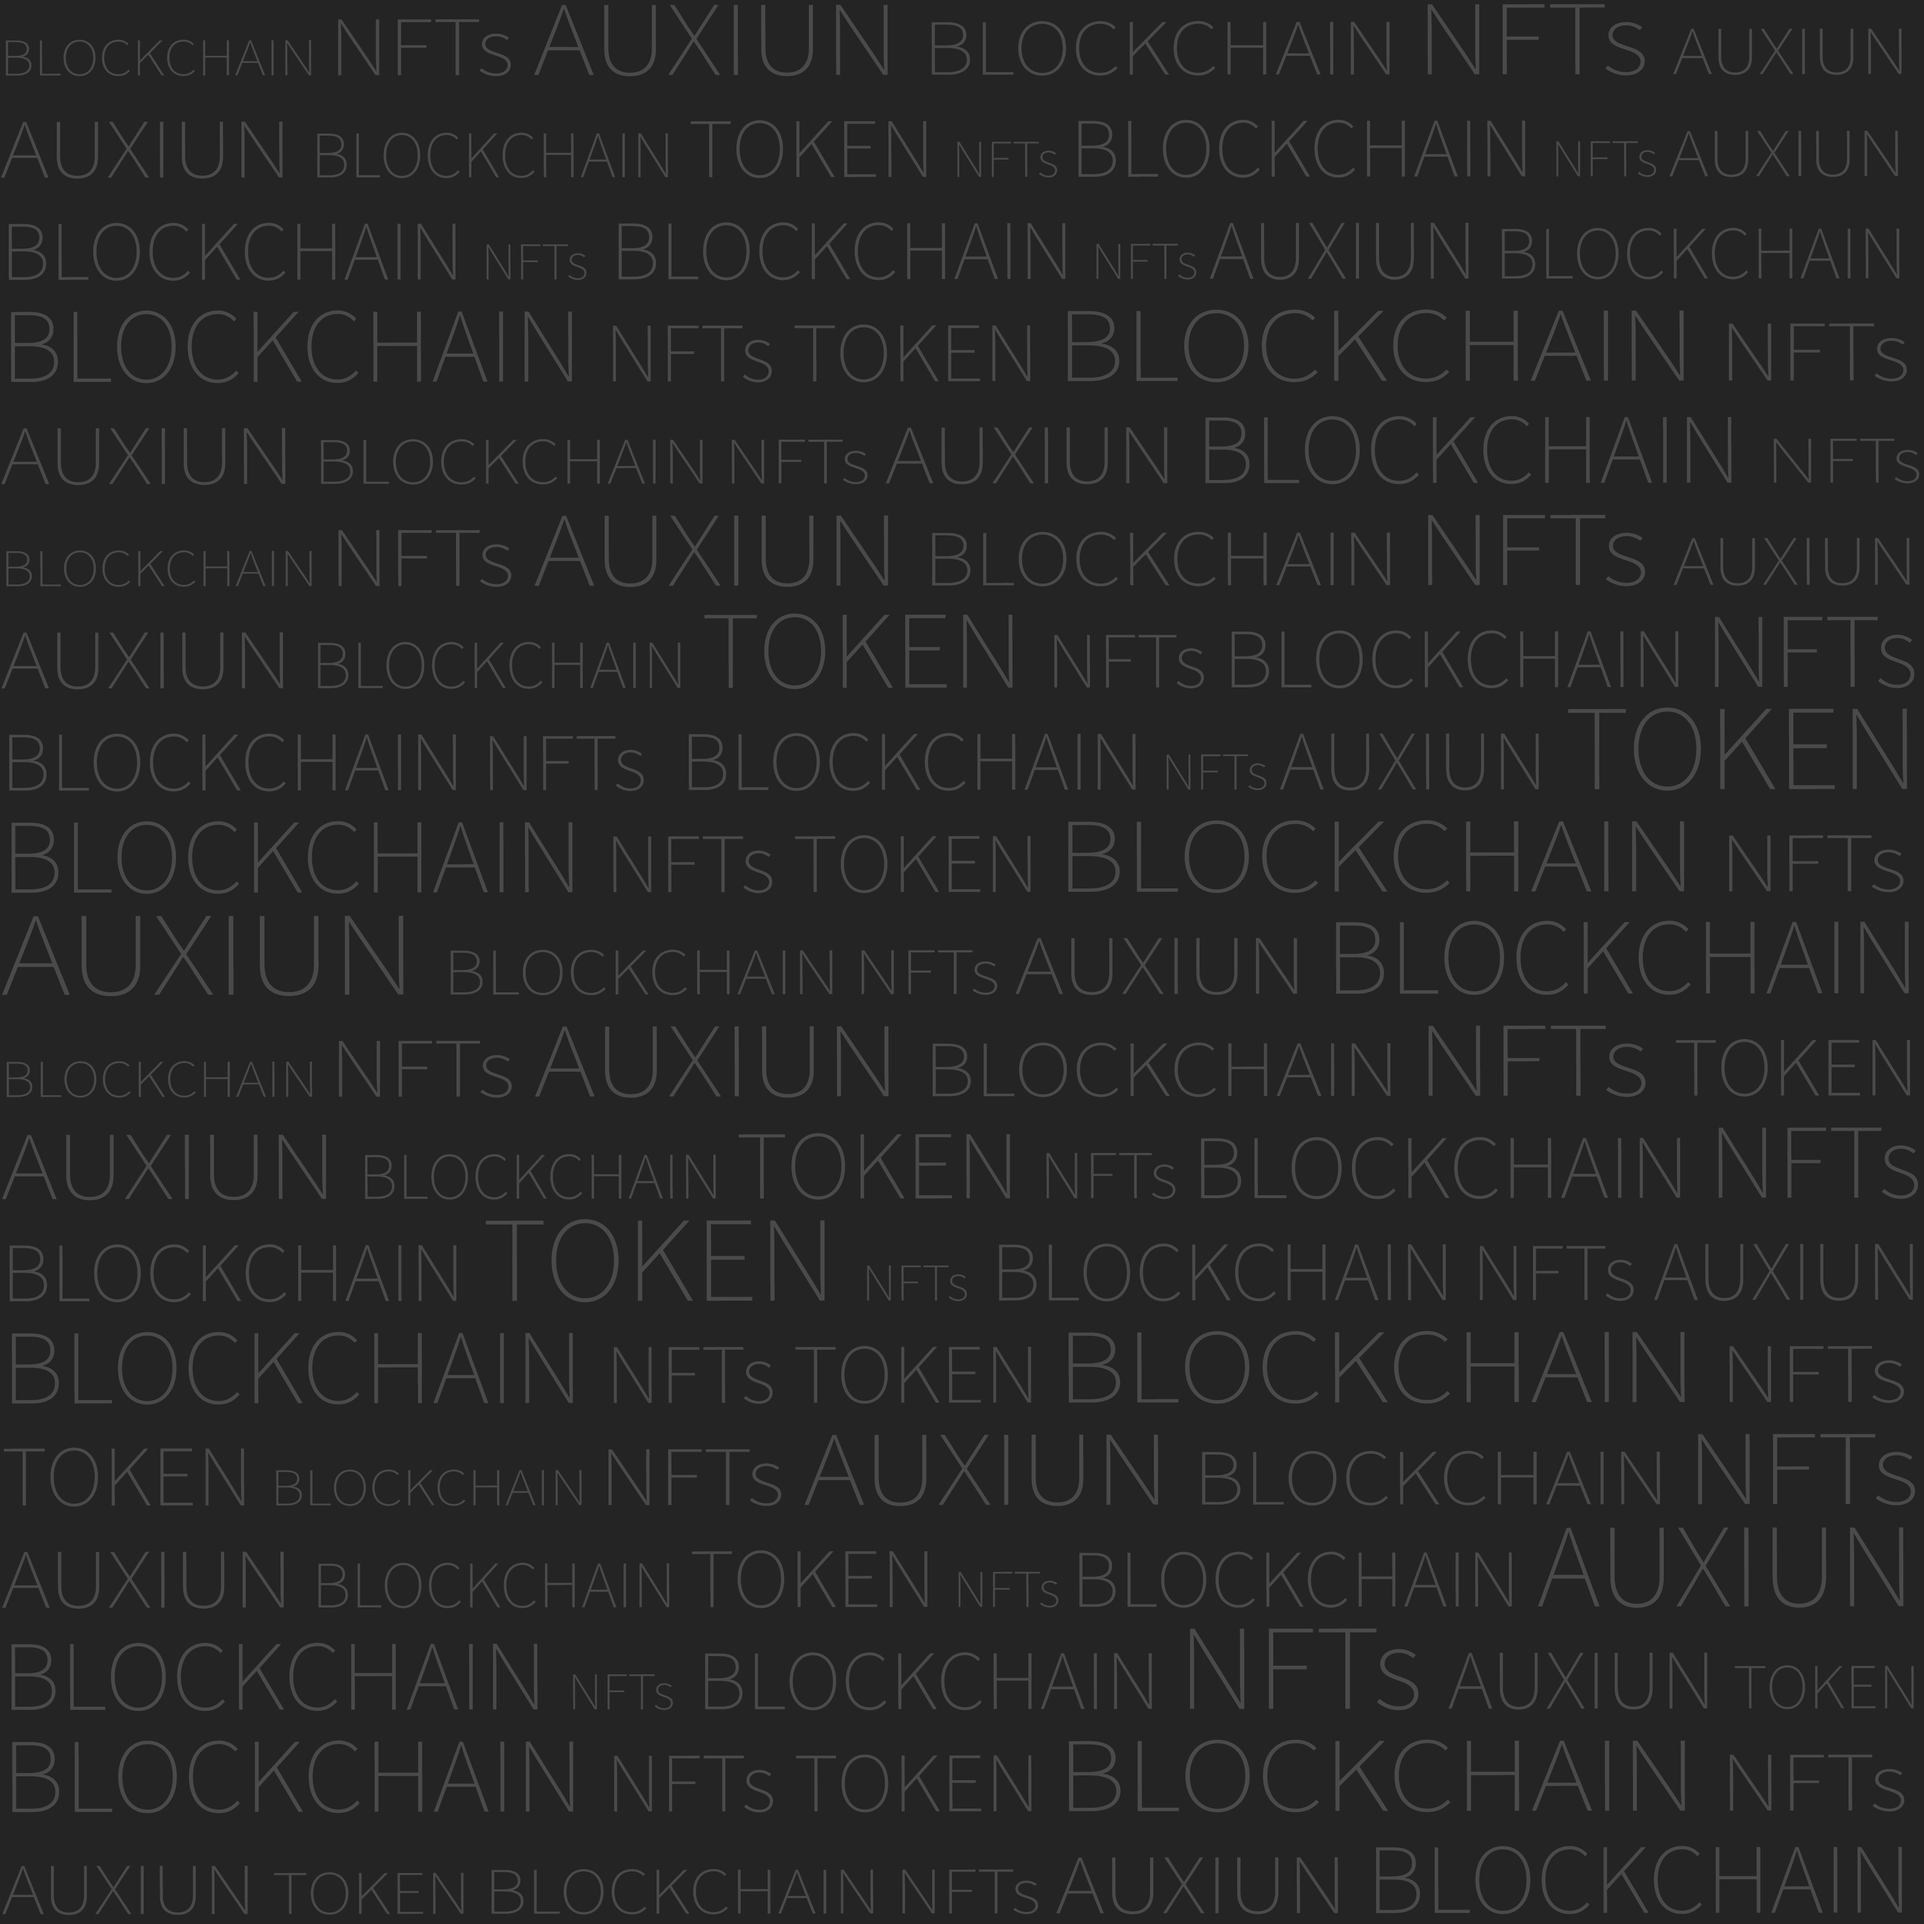
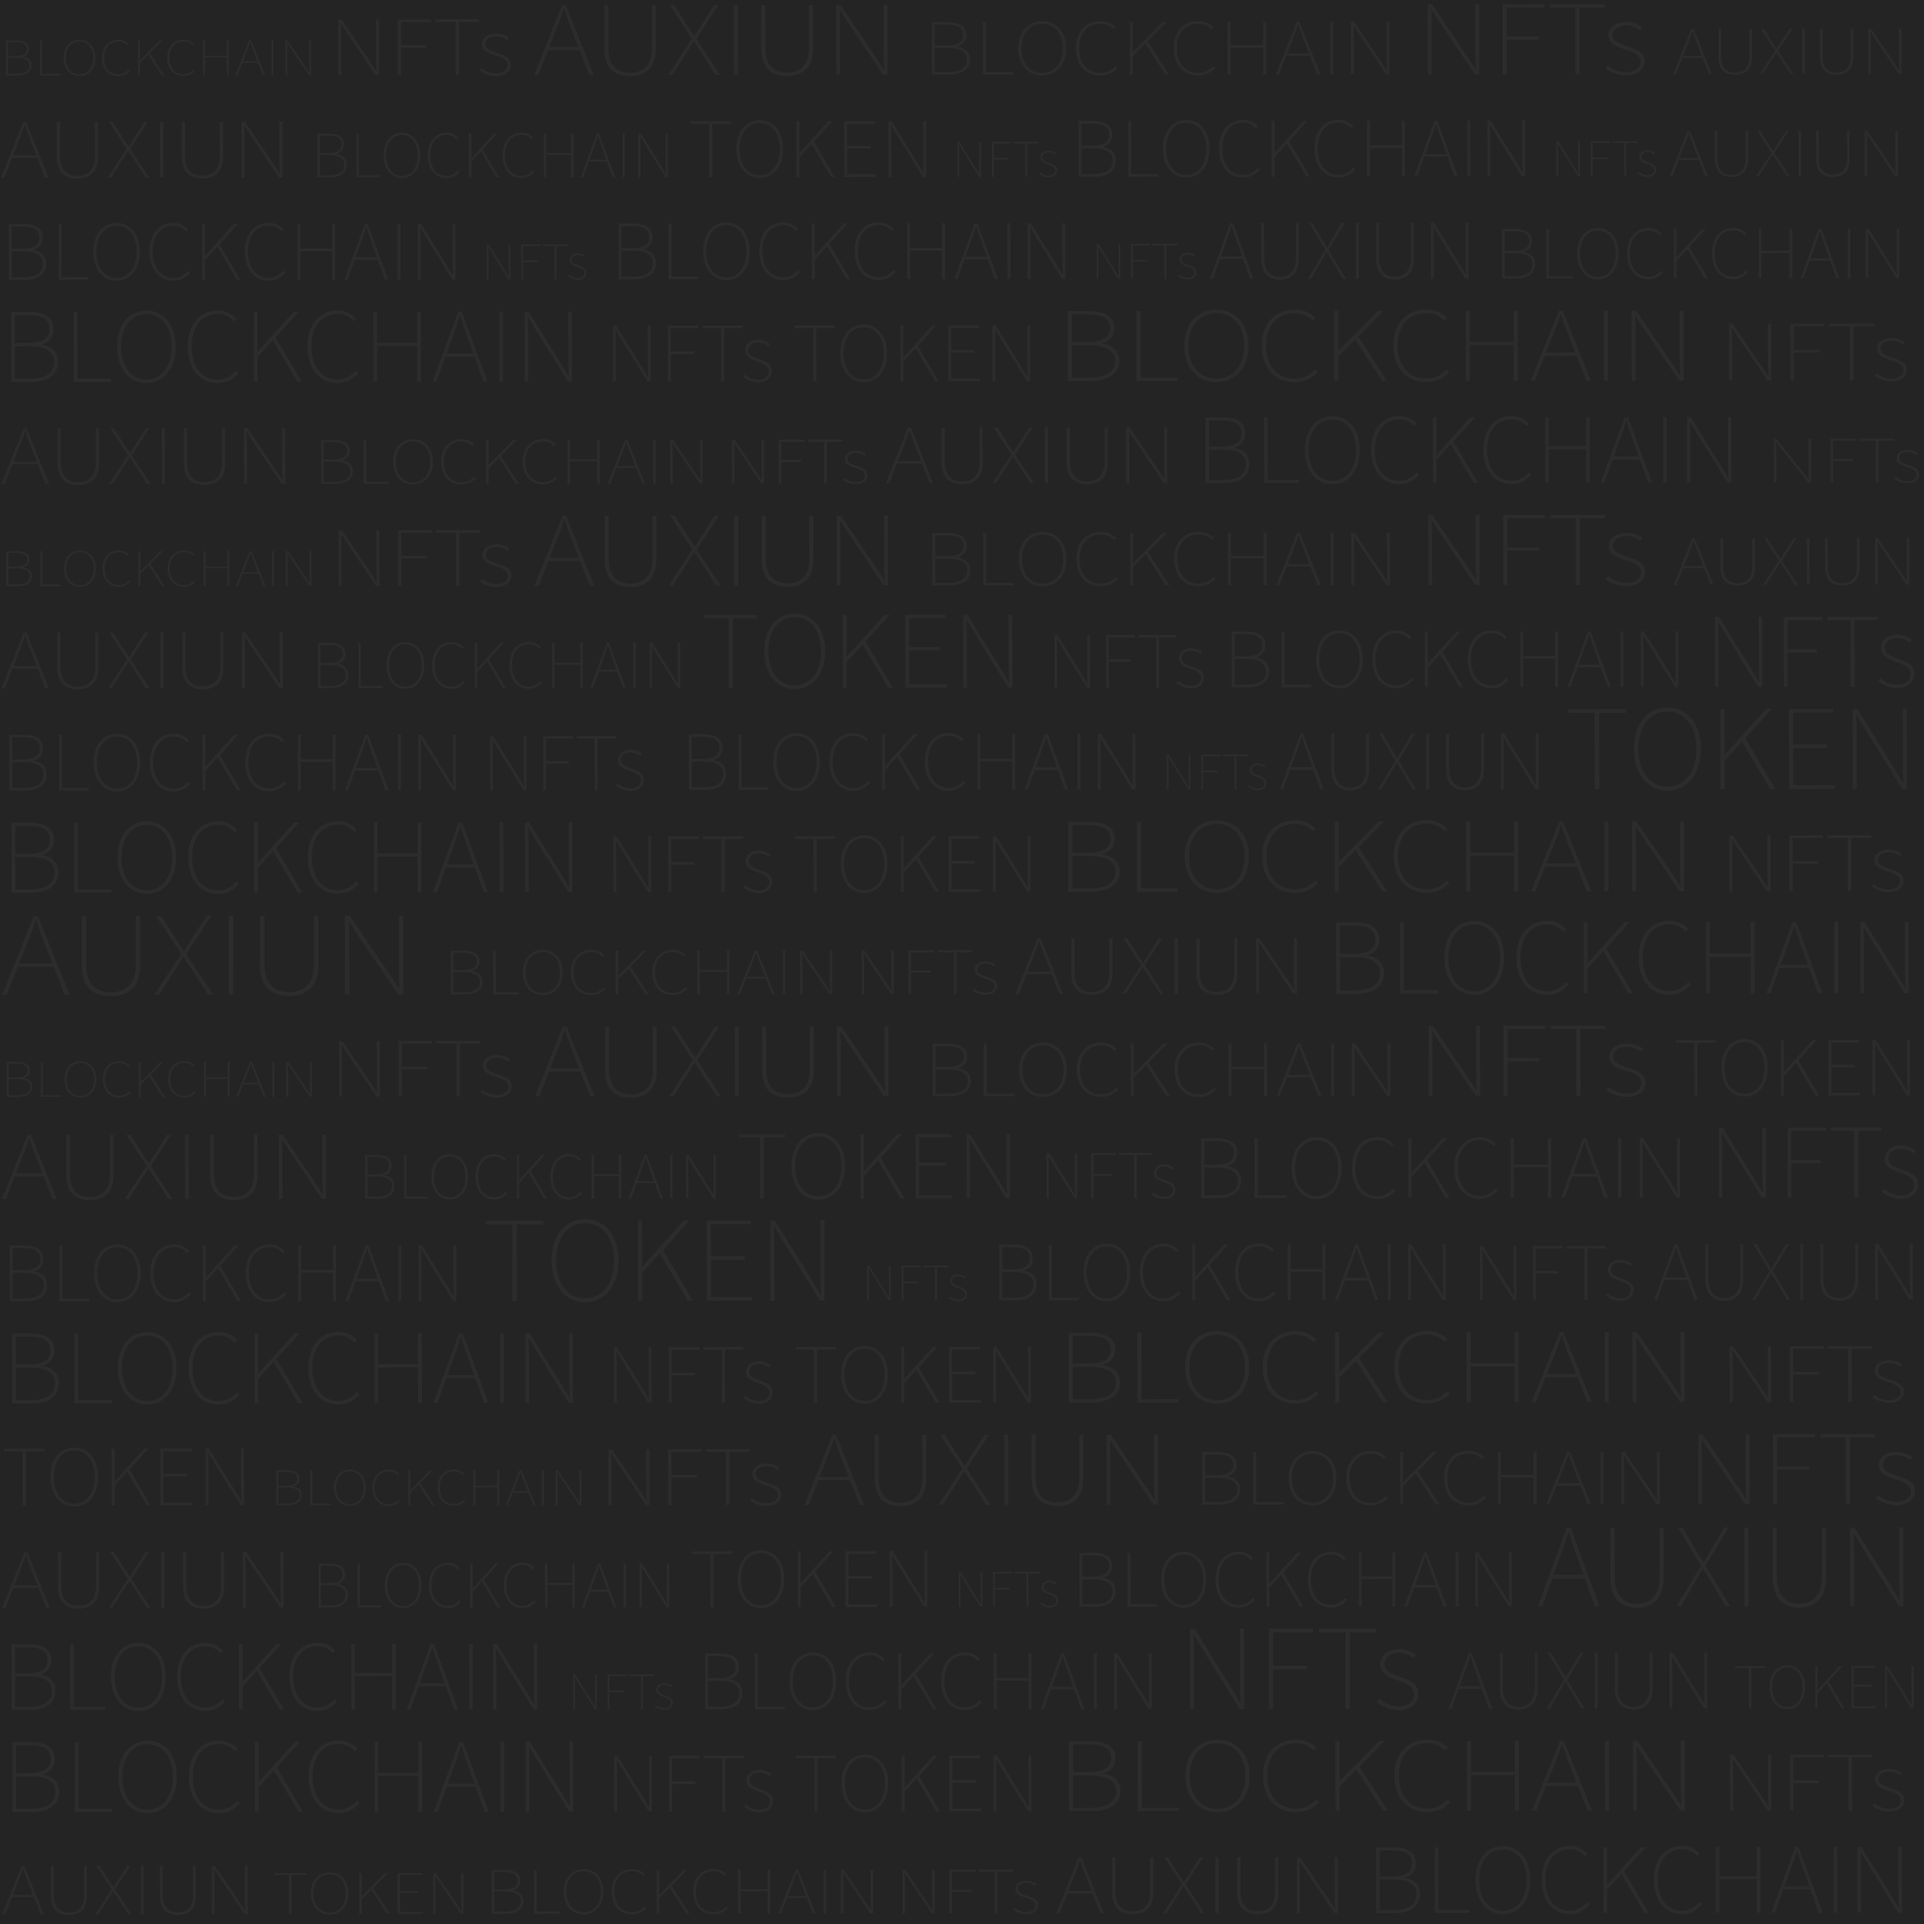
started dark theme for home page + updated dark theme background

diff --git a/src/components/profile-component/Profile.js b/src/components/profile-component/Profile.js
@@ -1,4 +1,4 @@
-import { useState, useEffect } from "react";
+import { useState, useEffect, useContext } from "react";
 import "./css/profile.css";
 import Typography from "@material-ui/core/Typography";
 import Container from "@material-ui/core/Container";
@@ -7,6 +7,7 @@ import { makeStyles } from "@material-ui/core/styles";
 import { withStyles } from "@material-ui/core/styles";
 import Gravatar from "react-gravatar";
 import FileCopyIcon from '@material-ui/icons/FileCopy';
+import darkThemeContext from "../darkThemeContext";
 
 const useStyles = makeStyles((theme) => ({
     button: {
@@ -42,6 +43,7 @@ const StyledButton = withStyles({
 
 const Profile = (props) => {
     const classes = useStyles();
+    const { darkTheme } = useContext(darkThemeContext);
 
     return (
         <div>
@@ -52,11 +54,11 @@ const Profile = (props) => {
                 <Gravatar email="" size={100} rounded />
                 <button className="edit-btn">Edit Profile</button>
 
-                <div className="user-title">{props.userSessionData.firstname} {props.userSessionData.lastname}</div>
+                <div className="user-title" style={{color:darkTheme ? 'aliceblue' : 'black'}}>{props.userSessionData.firstname} {props.userSessionData.lastname}</div>
 
-                <div className="wallet-title">[Wallet Address]</div>
+                <div className="wallet-title" style={{color:darkTheme ? 'aliceblue' : 'gray'}}>[Wallet Address]</div>
 
-                <div className="email-title">{props.userSessionData.email}</div>
+                <div className="email-title" style={{color:darkTheme ? 'aliceblue' : 'gray'}}>{props.userSessionData.email}</div>
 
                 <div className="link-btn">
                     Link the following platforms to your profile

diff --git a/src/components/home-components/Team.js b/src/components/home-components/Team.js
@@ -1,29 +1,32 @@
 import React from "react";
 import "./css/Team.css";
+import { useContext } from "react";
 import TeamImage from "../../assets/TeamImage.svg";
+import darkThemeContext from "../darkThemeContext";
 
 const Team = () => {
+  const { darkTheme } = useContext(darkThemeContext);
   return (
-    <div class="team-section">
+    <div class="team-section" style={{color: darkTheme ? 'aliceblue' : '#333333' }}>
       <p className="team-section">Meet Our Team</p>
 
       <div class="inner-width">
         <div class="pers">
           <div class="pe">
             <img src="http://auxiun.com/aws.jpg" />
-            <div class="p-name">Aws Al-Hasani Pl. Fin</div>
+            <div class="p-name" >Aws Al-Hasani Pl. Fin</div>
             <div class="p-des">CEO & Co Founder</div>
           </div>
 
           <div class="pe">
             <img src="http://auxiun.com/tito.jpg" />
-            <div class="p-name">Jose Armando Peixoto</div>
+            <div class="p-name" >Jose Armando Peixoto</div>
             <div class="p-des">CPO & Co-Founder</div>
           </div>
 
           <div class="pe">
             <img src="http://auxiun.com/vvv.jpg" />
-            <div class="p-name">Varthini Bhaskaran</div>
+            <div class="p-name" >Varthini Bhaskaran</div>
             <div class="p-des">CTO & Co-Founder</div>
           </div>
         </div>

diff --git a/src/components/home-components/Banner.js b/src/components/home-components/Banner.js
@@ -5,8 +5,11 @@ import Container from "@material-ui/core/Container";
 import Button from "@material-ui/core/Button";
 import { makeStyles } from "@material-ui/core/styles";
 import { withStyles } from "@material-ui/core/styles";
+import { useContext } from "react";
 
 import { useDencrypt } from "use-dencrypt-effect";
+
+import darkThemeContext from "../darkThemeContext";
 
 // Animated Text
 const values = ["gamer", "content creator", "artist"];
@@ -42,6 +45,7 @@ const StyledButton = withStyles({
 })(Button);
 
 const Banner = () => {
+  const { darkTheme } = useContext(darkThemeContext);
   const classes = useStyles();
 
   // Animated text
@@ -98,9 +102,10 @@ const Banner = () => {
                     stroke="url(#grad1)"
                     width="266"
                     height="50"
+                    className={darkTheme ? 'darkThemeSvg' : ''}
                   ></rect>
                 </svg>
-                <span>Explore Marketplace</span>
+                <span style={{backgroundColor: darkTheme ? 'aliceblue' : 'black'}}>Explore Marketplace</span>
               </a>
             </Container>
             </div>

diff --git a/src/components/home-components/About.js b/src/components/home-components/About.js
@@ -1,15 +1,19 @@
 import React from "react";
+import { useContext } from "react";
 import "./css/About.css";
 import BlockchainImage from "../../assets/blockchain.svg";
+import darkThemeContext from "../darkThemeContext";
+
  const About = () => {
+  const { darkTheme } = useContext(darkThemeContext);
   return (
     <div>
       <div className="about-banner">
           <div id="page-name-bar-heading">
             <p className="about-banner-title">About Us</p>
-            <p className="about-banner-title1">A LITTLE SOMETHING ABOUT US</p>
+            <p className="about-banner-title1" style={{color: darkTheme ? 'aliceblue' : '#333333' }}>A LITTLE SOMETHING ABOUT US</p>
           </div>
-          <div className="about-banner-text">
+          <div className="about-banner-text" style={{color: darkTheme ? 'aliceblue' : '#999999'}}>
           Montreal-based start-up working to revolutionise in-game transactions
           and wealth focusing on in-game economics and media ownership. We work
           on integrating our in-house technology to incorporate blockchain

diff --git a/src/components/home-components/css/Banner.css b/src/components/home-components/css/Banner.css
@@ -62,6 +62,7 @@
   position: absolute;
   top: 0;
   left: 0;
+  
 }
 
 .btn svg rect {
@@ -71,9 +72,20 @@
   stroke-dashoffset: 0;
   -webkit-transition: all 600ms ease;
   transition: all 600ms ease;
+  /* stroke: aliceblue; */
 }
+
+.darkThemeSvg {
+  stroke-width: 4;
+  stroke-dasharray: 353, 0;
+  stroke-dashoffset: 0;
+  -webkit-transition: all 600ms ease;
+  transition: all 600ms ease;
+  stroke: aliceblue;
+}
+
 .btn span {
-  background-color: black;
+  /* background-color: black; */
   -webkit-background-clip: text;
   -webkit-text-fill-color: transparent;
 }

diff --git a/src/components/profile-component/css/profile.css b/src/components/profile-component/css/profile.css
@@ -12,21 +12,19 @@
   margin: auto;
 }
 .user-title {
-  background: black;
+  /* background: black; */
   font-size: 30px;
-  -webkit-background-clip: text;
-  -webkit-text-fill-color: transparent;
+  /* -webkit-background-clip: text; */
+  /* -webkit-text-fill-color: transparent; */
   padding-top: 1%;
   text-emphasis: bolder;
   padding-bottom: 10px;
 }
 .email-title {
   font-size: 10px;
-  color: grey;
 }
 
 .wallet-title {
-  color: darkgray;
   font-weight: bolder;
   font-size: 10px;
   padding-bottom: 10px;

diff --git a/src/components/home-components/css/About.css b/src/components/home-components/css/About.css
@@ -20,7 +20,6 @@
   /* margin-left: 10%; */
   /* text-align: center; */
   margin: auto;
-  color: #999999;
   font-size: 16px;
   letter-spacing: 1px;
   text-align: center;
@@ -31,9 +30,7 @@
 }
 
 .about-banner-title1{
-  color: rgb(51, 51, 51); 
   text-align: center;
-  color: rgb(51, 51, 51);
   font-size: 20px;
   font-weight: 600;
   font-family: 'Montserrat', sans-serif;

diff --git a/src/components/home-components/css/Team.css b/src/components/home-components/css/Team.css
@@ -1,8 +1,6 @@
 .team-section {
   text-align: center;
-  color: rgb(51, 51, 51); 
   text-align: center;
-  color: rgb(51, 51, 51);
   font-size: 20px;
   font-weight: 600;
   font-family: 'Montserrat', sans-serif;
